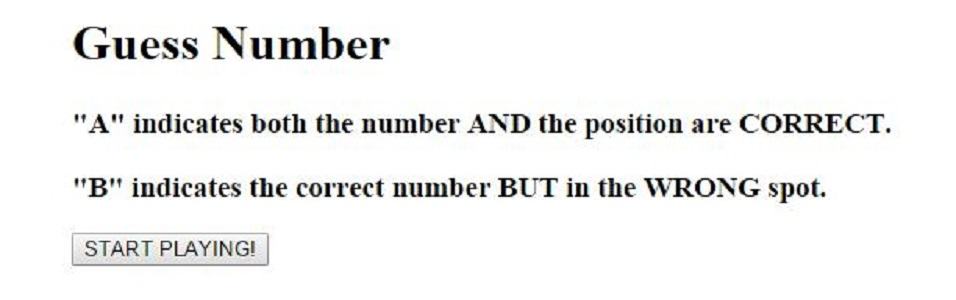
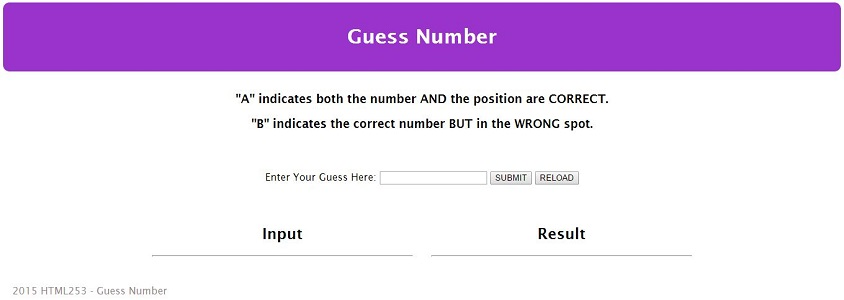
07102015 Commit

diff --git a/scripts/guessNumber.js b/scripts/guessNumber.js
@@ -1,60 +1,68 @@
+//To create an array with 0-9 as its elements
+var array = ["0", "1", "2", "3", "4", "5", "6", "7", "8", "9"];
+
+//To create an empty array called answer
+var answer = [];
+
+//Randomly select 4 different numbers from the array
+//To remove the selected number from the array during each loop
+for (var i = 0; i < 4; i++) {
+    var random = Math.floor((Math.random() * array.length));
+    answer[i] = array[random];
+    array.splice(random, 1);
+}
+
 function guessNum() {
 
-    //To create an array with 0-9 as its elements
-    var array = ["0", "1", "2", "3", "4", "5", "6", "7", "8", "9"];
-
-    //To create an empty array called answer
-    var answer = [];
-
-    //Randomly select 4 different numbers from the array
-    //To remove the selected number from the array during each loop
-    for (var i = 0; i < 4; i++) {
-        var random = Math.floor((Math.random() * array.length));
-        answer[i] = array[random];
-        array.splice(random, 1);
-    }
-
-    //Using aCnt to record the number of As and bCnt to record the number of Bs.
-    var aCnt = 0;
-    var bCnt = 0;
-
-    while (aCnt != 4) {
-        //Using input to record the number which entered by the user.
-        var input = prompt("Please enter a 4-digit number:");
-        //Dummy proof: to prevent user entering wrong numbers
-        if (input.length != 4) {
-            alert("It seems that you did not enter a 4-digit number!");
-            var input = prompt("Please input a number with 4 distinctive digits:");
-        } else if (
-            input.charAt(0) === input.charAt(1) || input.charAt(0) === input.charAt(2) || input.charAt(0) === input.charAt(3) || input.charAt(1) === input.charAt(2) || input.charAt(1) === input.charAt(3) || input.charAt(2) === input.charAt(3)
-        ) {
-            alert("It seems that you entered duplicated numbers!");
-            var input = prompt("Please input a number with 4 distinctive digits:");
-        };
+    //Retrieve the value from input box
+    var myInput = document.getElementById("myInput").value;
+    //Using an if-else if-else to justify the entry
+    if (myInput.length < 4) {
+        document.getElementById("returnInput").innerHTML += "Your entry was less than 4 digits" + "<br>";
+        document.getElementById("returnResult").innerHTML += "Your entry was less than 4 digits" + "<br>";
+        document.getElementById("myInput").value = "";
+    } else if (isNaN(myInput) === true) {
+        document.getElementById("returnInput").innerHTML += "Your entry contained characters instead of numbers" + "<br>";
+        document.getElementById("returnResult").innerHTML += "Your entry contained characters instead of numbers" + "<br>";
+        document.getElementById("myInput").value = "";
+    } else if (myInput.charAt(0) === myInput.charAt(1) || myInput.charAt(0) === myInput.charAt(2) || myInput.charAt(0) === myInput.charAt(3) || myInput.charAt(1) === myInput.charAt(2) || myInput.charAt(1) === myInput.charAt(3) || myInput.charAt(2) === myInput.charAt(3)) {
+        document.getElementById("returnInput").innerHTML += "Your entry contained duplicated numbers" + "<br>";
+        document.getElementById("returnResult").innerHTML += "Your entry contained duplicated numbers" + "<br>";
+        document.getElementById("myInput").value = "";
+    } else {
+        var aCnt = 0;
+        var bCnt = 0;
         //Using a for-loop to count how many As
         for (var i = 0; i < 4; i++) {
-            if (answer[i] === input.charAt(i)) {
+            if (answer[i] === myInput.charAt(i)) {
                 aCnt += 1;
             };
         };
         //Using a nested for-loop to count how many Bs
         for (var i = 0; i < 4; i++) {
             for (var j = 0; j < 4; j++) {
-                if (i !== j && answer[i] === input.charAt(j)) {
+                if (i !== j && answer[i] === myInput.charAt(j)) {
                     bCnt += 1;
                 }
             }
         }
-        //To tell the result of guessing
-        alert("You entered:" + input + " and you got: " + aCnt + "A" + bCnt + "B");
-
-        //To break loop if the user gets the right number
+        document.getElementById("returnInput").innerHTML += myInput + "<br>";
+        document.getElementById("returnResult").innerHTML += aCnt + "A" + bCnt + "B" + "<br>";
+        document.getElementById("myInput").value = "";
         if (aCnt === 4) {
-            alert("You Got the Right Number!");
-            break;
-        } else {
-            var aCnt = 0;
-            var bCnt = 0;
+            alert("Congratulations, " + myInput + " is the right answer!");
+            location.reload();
         };
-    }
+    };
+}
+
+function reloadNum() {
+    location.reload();
+}
+
+function enterPress() {
+    if (window.event.keyCode == 13) {
+        guessNum();
+        document.getElementById("myInput").value = "";
+    };
 }

diff --git a/guessNumber.html b/guessNumber.html
@@ -11,38 +11,43 @@
     <meta name="description" content="description">
     <link rel="shortcut icon" type="image/x-icon" href="/favicon.ico">
     <link rel="apple-touch-icon" href="/favicon.png">
-    <link rel="stylesheet" href="css/guessNumber/guessNumber.css">
+    <link rel="stylesheet" href="guessNumber2.css">
     <title>Guess Number</title>
 </head>
 
 <body>
-    <div id="container">
-        <div>
+    <div class="container">
+        <div class="header">
             <h1>Guess Number</h1></div>
-        <h3>"A" indicates both the number AND the position are CORRECT.</h3>
-        <h3>"B" indicates the correct number BUT in the WRONG spot.</h3>
-        <!--
-        <p>Now submit your guess with 4 distinctive numbers:</p>
-        <input type="text" id="num" maxlength="4">
-        <button type="button" onclick="guessNum2()">SUBMIT</button>
-        -->
-        <div id="component">
-            <button type="button" onclick="guessNum()">START PLAYING!</button>
+        <div class="rule">
+            <h3>"A" indicates both the number AND the position are CORRECT.</h3>
+            <h3>"B" indicates the correct number BUT in the WRONG spot.</h3></div>
+        <div class="inputBox">
+            <p>Enter Your Guess Here:
+                <input type="text" id="myInput" maxlength="4" onKeyPress="enterPress()">
+                <button onclick="guessNum()">SUBMIT</button>
+                <button onclick="reloadNum()">RELOAD</button>
+            </p>
         </div>
-        <!--
-    <div>
-        <h2>Input</h2>
-        <hr>
-        <p id="p1"></p>
+        <div class="row">
+            <div>
+                <div class="col-m-2 col-2"></div>
+                <div class="col-m-4 col-4" id="inputResult">
+                    <h2>Input</h2>
+                    <hr>
+                    <p id="returnInput"></p>
+                </div>
+                <div class="col-m-4 col-4" id="inputResult">
+                    <h2>Result</h2>
+                    <hr>
+                    <p id="returnResult"></p>
+                </div>
+                <div class="col-m-2 col-2"></div>
+            </div>
+        </div>
+        <div class="footer">2015 HTML253 - Guess Number</div>
     </div>
-    <div>
-        <h2>Result</h2>
-        <hr>
-        <p id="p2"></p>
-    </div>
-    -->
-    </div>
-    <script type="text/javascript" src="scripts/guessNumber.js"></script>
+    <script type="text/javascript" src="guessNumber2.js"></script>
 </body>
 
 </html>

diff --git a/css/guessNumber/guessNumber.css b/css/guessNumber/guessNumber.css
@@ -1,9 +1,183 @@
-#container {
-    margin: auto;
-    width: 40%;
+* {
+    box-sizing: border-box;
 }
 
-#component {
-    margin: auto;
-    width: 40%;
+body {
+    font-family: "Lucida Sans", sans-serif;
+}
+
+.row:after {
+    content: "";
+    clear: both;
+    display: block;
+}
+
+.col-1 {
+    width: 8.33%;
+}
+
+.col-2 {
+    width: 16.66%;
+}
+
+.col-3 {
+    width: 25%;
+}
+
+.col-4 {
+    width: 33.33%;
+}
+
+.col-5 {
+    width: 41.66%;
+}
+
+.col-6 {
+    width: 50%;
+}
+
+.col-7 {
+    width: 58.33%;
+}
+
+.col-8 {
+    width: 66.66%;
+}
+
+.col-9 {
+    width: 75%;
+}
+
+.col-10 {
+    width: 83.33%;
+}
+
+.col-11 {
+    width: 91.66%;
+}
+
+.col-12 {
+    width: 100%;
+}
+
+[class*="col-"] {
+    float: left;
+    padding: 15px;
+    border: 2px;
+}
+/* For mobile phones: */
+
+[class*="col-"] {
+    width: 100%;
+}
+
+@media only screen and (min-width: 600px) {
+    /* For tablets: */
+    
+    .col-m-1 {
+        width: 8.33%;
+    }
+    .col-m-2 {
+        width: 16.66%;
+    }
+    .col-m-3 {
+        width: 25%;
+    }
+    .col-m-4 {
+        width: 33.33%;
+    }
+    .col-m-5 {
+        width: 41.66%;
+    }
+    .col-m-6 {
+        width: 50%;
+    }
+    .col-m-7 {
+        width: 58.33%;
+    }
+    .col-m-8 {
+        width: 66.66%;
+    }
+    .col-m-9 {
+        width: 75%;
+    }
+    .col-m-10 {
+        width: 83.33%;
+    }
+    .col-m-11 {
+        width: 91.66%;
+    }
+    .col-m-12 {
+        width: 100%;
+    }
+}
+
+@media only screen and (min-width: 768px) {
+    /* For desktop: */
+    
+    .col-1 {
+        width: 8.33%;
+    }
+    .col-2 {
+        width: 16.66%;
+    }
+    .col-3 {
+        width: 25%;
+    }
+    .col-4 {
+        width: 33.33%;
+    }
+    .col-5 {
+        width: 41.66%;
+    }
+    .col-6 {
+        width: 50%;
+    }
+    .col-7 {
+        width: 58.33%;
+    }
+    .col-8 {
+        width: 66.66%;
+    }
+    .col-9 {
+        width: 75%;
+    }
+    .col-10 {
+        width: 83.33%;
+    }
+    .col-11 {
+        width: 91.66%;
+    }
+    .col-12 {
+        width: 100%;
+    }
+}
+
+.header {
+    background-color: #9933cc;
+    color: #ffffff;
+    padding: 15px;
+    text-align: center;
+    border-radius: 10px;
+}
+
+.rule {
+    padding: 15px;
+    text-align: center;
+}
+
+.inputBox {
+    padding: 15px;
+    text-align: center;
+}
+
+#inputResult {
+    text-align: center;
+}
+
+.footer {
+    float: bottom;
+    bottom: 15px;
+    padding: 15px;
+    color: #9A8D8D;
 }
